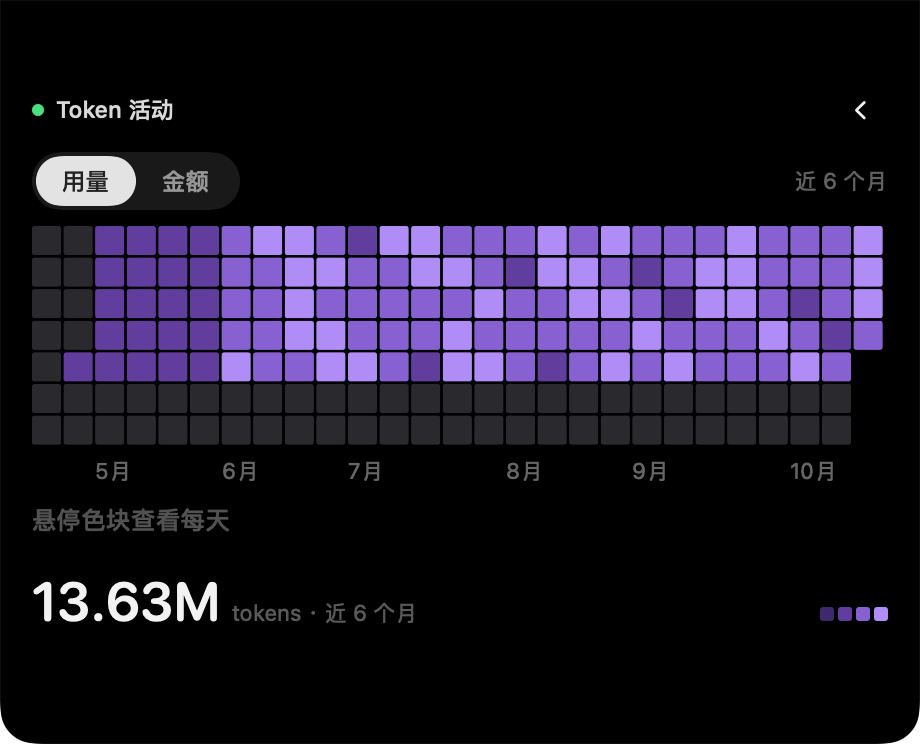
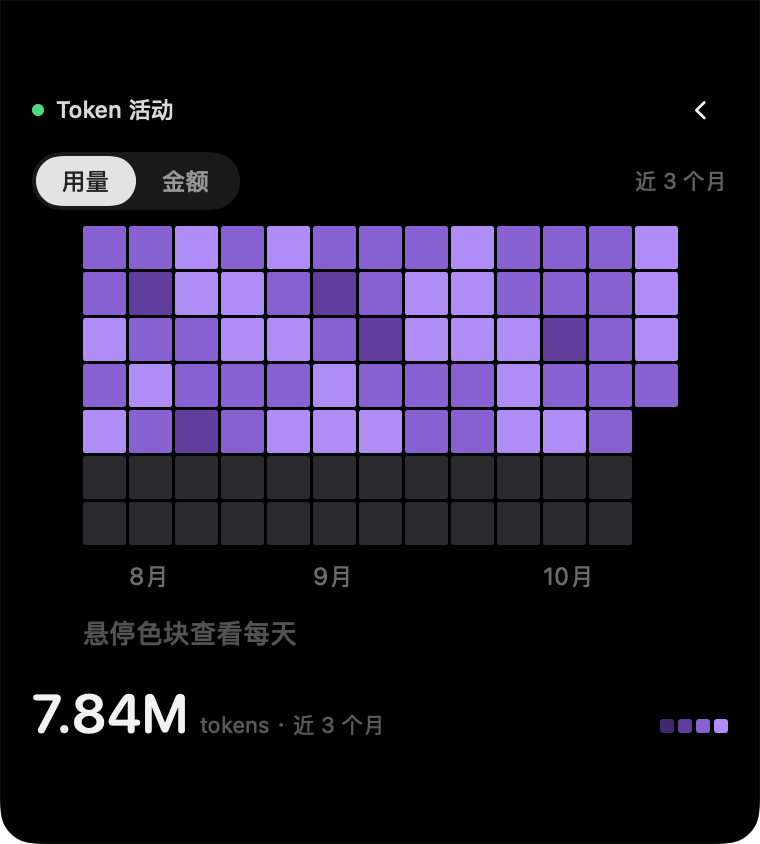
ui: 日历只展示近 3 个月（13 周），格子放大到 21.5pt

diff --git a/Sources/Views.swift b/Sources/Views.swift
@@ -305,7 +305,7 @@ struct BalanceCard: View {
             HStack(spacing: 6) {
                 metricToggle
                 Spacer(minLength: 0)
-                Text("近 6 个月")
+                Text("近 3 个月")
                     .font(.system(size: 11))
                     .foregroundStyle(.white.opacity(0.38))
             }
@@ -313,13 +313,14 @@ struct BalanceCard: View {
 
             if let activity = model.activity, !activity.days.isEmpty {
                 CalendarHeatmapView(activity: activity, metric: state.calendarMetric)
+                    .frame(maxWidth: .infinity, alignment: .center)
                     .padding(.top, 8)
 
                 HStack(alignment: .firstTextBaseline, spacing: 5) {
                     Text(activityTotalText(activity))
                         .font(.system(size: 27, weight: .semibold, design: .rounded))
                         .foregroundStyle(.white.opacity(0.95))
-                    Text(state.calendarMetric == .tokens ? "tokens · 近 6 个月" : "· 近 6 个月")
+                    Text(state.calendarMetric == .tokens ? "tokens · 近 3 个月" : "· 近 3 个月")
                         .font(.system(size: 11))
                         .foregroundStyle(.white.opacity(0.35))
                     Spacer(minLength: 4)
@@ -713,8 +714,8 @@ private struct CalendarHeatmapView: View {
 
     @State private var hovered: HoveredCell?
 
-    private let cellSize: CGFloat = 14.5
-    private let gap: CGFloat = 1.3
+    private let cellSize: CGFloat = 21.5
+    private let gap: CGFloat = 1.5
     private var pitch: CGFloat { cellSize + gap }
     private var gridWidth: CGFloat { CGFloat(ActivityCalendar.weeks) * pitch - gap }
     private var gridHeight: CGFloat { CGFloat(ActivityCalendar.daysPerWeek) * pitch - gap }
@@ -770,22 +771,22 @@ private struct CalendarHeatmapView: View {
 
             ForEach(calendar.monthLabels) { label in
                 Text(label.label)
-                    .font(.system(size: 11))
-                    .foregroundStyle(.white.opacity(0.40))
-                    .offset(x: CGFloat(label.column) * pitch, y: gridHeight + 6)
+                    .font(.system(size: 12))
+                    .foregroundStyle(.white.opacity(0.42))
+                    .offset(x: CGFloat(label.column) * pitch, y: gridHeight + 8)
             }
 
             // 悬停详情放在色块下方固定一行：卡片太小，浮层气泡会盖住数字。
             Text(hovered.map { TokenActivityCalendar.hoverText(for: $0.cell, metric: metric) }
                  ?? "悬停色块查看每天")
-                .font(.system(size: 12.5, weight: .medium))
+                .font(.system(size: 13.5, weight: .medium))
                 .foregroundStyle(.white.opacity(hovered == nil ? 0.32 : 0.95))
                 .lineLimit(1)
                 .truncationMode(.tail)
                 .frame(width: gridWidth, alignment: .leading)
-                .offset(y: gridHeight + 30)
+                .offset(y: gridHeight + 36)
         }
-        .frame(width: gridWidth, height: gridHeight + 52, alignment: .topLeading)
+        .frame(width: gridWidth, height: gridHeight + 58, alignment: .topLeading)
     }
 }
 

diff --git a/Sources/TokenActivity.swift b/Sources/TokenActivity.swift
@@ -82,12 +82,12 @@ struct MonthLabel: Equatable, Identifiable {
     var id: Int { column }
 }
 
-/// 日历网格（27 列 × 7 行，周一开头，最后一列包含今天）。
+/// 日历网格（13 列 × 7 行，周一开头，最后一列包含今天）。
 ///
-/// 卡片只有 300×256，53 周的格子会缩到 4pt、字也挤成一团；这里只展示最近
-/// 6 个月（27 周），每格可以放到 ~8.4pt，数字和月份标签才看得清。
+/// 用户不需要回看半年：今天 10 月 22 日，展示 8–10 月（近 3 个月）就够了。
+/// 列数减半后，每格可以放大到 ~21pt，卡片里也能看清。
 struct ActivityCalendar: Equatable {
-    static let weeks = 27
+    static let weeks = 13
     static let daysPerWeek = 7
 
     /// columns[col][row]

diff --git a/Sources/NotchGeometry.swift b/Sources/NotchGeometry.swift
@@ -18,9 +18,9 @@ struct NotchGeometry {
     /// 统一高度省掉了「切页要改窗口尺寸」这一层状态。
     static let cardHeight: CGFloat = 224
 
-    /// 日历页把同一张卡片拉大：300×224 里 27 周的格子只有 8pt，放大才看得清。
-    static let calendarWidth: CGFloat = 460
-    static let calendarHeight: CGFloat = 340
+    /// 日历页把同一张卡片拉大：300×224 里 13 周的格子只有几 pt，放大才看得清。
+    static let calendarWidth: CGFloat = 380
+    static let calendarHeight: CGFloat = 390
 
     static func cardSize(calendar: Bool) -> NSSize {
         calendar

diff --git a/Sources/main.swift b/Sources/main.swift
@@ -1098,7 +1098,7 @@ func runCalendarCheck() -> Int32 {
     )
     check(
         "日历：月份标签数量合理",
-        (5...7).contains(calendar.monthLabels.count),
+        (3...4).contains(calendar.monthLabels.count),
         "\(calendar.monthLabels.count) 个",
     )
 

diff --git a/docs/token-activity.md b/docs/token-activity.md
@@ -1,7 +1,7 @@
 # Token 用量日历（token activity）
 
-DSHNotch 卡片里的「用量日历」：按天展示近 6 个月消耗的 token 或预估金额（快照仍保留 371 天，客户端展示最近 27 周；
-日历页会把同一张卡片放大到 460×340，余额页仍是 300×224），
+DSHNotch 卡片里的「用量日历」：按天展示近 3 个月消耗的 token 或预估金额（快照仍保留 371 天，客户端展示最近 13 周；
+日历页会把同一张卡片放大到 380×390，余额页仍是 300×224），
 支持鼠标悬停查看每天的具体数值。
 
 ## 数据从哪来
@@ -55,9 +55,9 @@ DSH 没有「每日用量」接口，但每个会话日志里都有 `assistant/m
 
 - 卡片标题栏新增日历按钮，点击切换到日历页；再点左上角返回
 - 日历页顶部「用量 / 金额」切换：token 用紫色系，金额用绿色系
-- 27 列 × 7 行热力格（周一开头，约 6 个月），月份标签在下方
+- 13 列 × 7 行热力格（周一开头，约 3 个月），月份标签在下方
 - 鼠标悬停色块：白框高亮 + 色块下方固定一行显示「10月21日 · 1.24M tokens / ≈¥0.42」
-- 底部显示近 6 个月合计；没有数据时显示占位提示
+- 底部显示近 3 个月合计；没有数据时显示占位提示
 
 ## 验收
 

diff --git a/README.md b/README.md
@@ -239,8 +239,8 @@ grep 通知 "$(node -e 'process.stdout.write(require("os").tmpdir())')/dsh-notch
 
 ### Token 用量日历
 
-卡片标题栏的日历按钮可以切到「用量日历」：日历页会把同一张卡片放大到 460×340，
-展示近 6 个月的每日 token 用量或金额（token 紫色、金额绿色），鼠标悬停色块查看当天具体数值。
+卡片标题栏的日历按钮可以切到「用量日历」：日历页会把同一张卡片放大到 380×390，
+展示近 3 个月的每日 token 用量或金额（token 紫色、金额绿色），鼠标悬停色块查看当天具体数值。
 
 ![Token 用量日历](preview/calendar-tokens.png)
 

diff --git a/README.en.md b/README.en.md
@@ -252,7 +252,7 @@ grep 通知 "$(node -e 'process.stdout.write(require("os").tmpdir())')/dsh-notch
 
 ### Token activity calendar
 
-A calendar button in the card header enlarges the same card to 460×340 and opens a 6-month
+A calendar button in the card header enlarges the same card to 380×390 and opens a 3-month
 heatmap of daily token usage, or of estimated cost (tokens are purple, money is green). Hover a cell to see that day's exact
 numbers.
 
